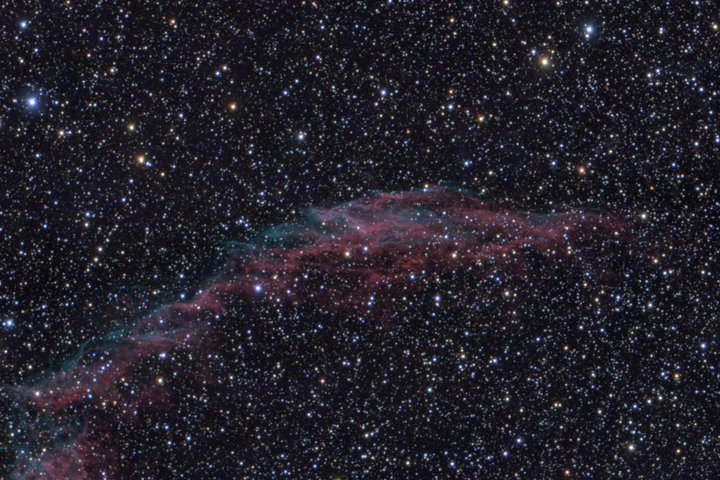
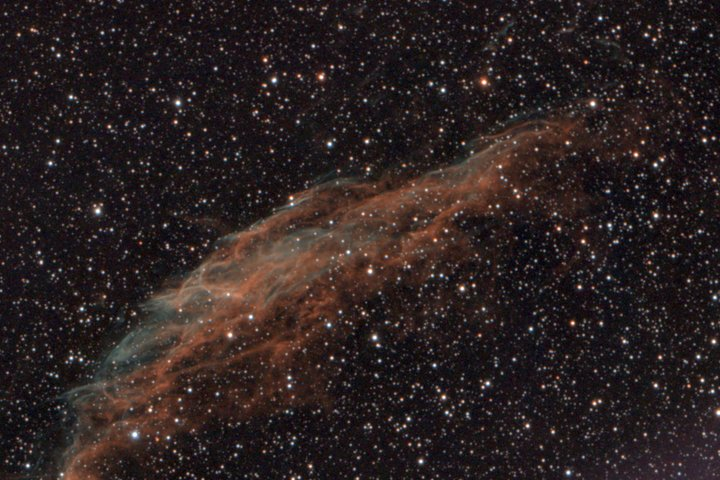
Gallery: Veil and North America Nebula from the new quad-band restacks
Eastern Veil 257 min (29-30 Oct), NGC 7000 145 min over five nights, M33 updated to
25 min; 17 targets, 26.1 h over 10 nights. The Veil card is centred on the filament;
the "close crop" tag is kept for cards that really zoom in.

diff --git a/docs/index.html b/docs/index.html
@@ -20,8 +20,8 @@ footer{color:var(--dim);font-size:14px;padding-bottom:40px}
 </style>
 <header>
 <h1>OriginMonitor gallery</h1>
-<p>Deep-sky images taken unattended with a Celestron Origin (152 mm f/2.2 RASA, 1.48&Prime; per pixel) from Cambridge, UK, between 9 October 2026 and 27 October 2026:
-17 targets, 21.9 hours of stacked exposure over 9 nights. Each target is one stack of all its good frames from every night
+<p>Deep-sky images taken unattended with a Celestron Origin (152 mm f/2.2 RASA, 1.48&Prime; per pixel) from Cambridge, UK, between 9 October 2026 and 30 October 2026:
+17 targets, 26.1 hours of stacked exposure over 10 nights. Each target is one stack of all its good frames from every night
 (<code>tools/restack.py</code>), shown as the live stacker's own preview at half resolution: background extraction, colour neutralisation and a stretch, with no further processing.
 Click a picture for the full field (about 75&prime; &times; 50&prime;).</p>
 <p>The stacker, scheduler and unattended supervisor are in the <a href="https://github.com/jrrk2/OriginMonitor">OriginMonitor repository</a>; how they drive the telescope is
@@ -29,7 +29,7 @@ drawn in <a href="state_machines.html">the state-machine charts</a>.</p>
 </header>
 <main>
 <figure><a href="gallery/ngc6888.jpg" title="Full field, 1380 &times; 580"><img src="gallery/ngc6888_card.jpg" alt="Crescent Nebula, NGC 6888" width="720" height="480" loading="lazy"></a><figcaption><b>Crescent Nebula, NGC 6888</b><br>889 frames, 197 min &middot; 10 s at ISO 800 &middot; Antlia quad-band nebula filter &middot; nights of 16, 25 Oct 2026 &middot; star HFR 3.5&Prime;</figcaption></figure>
-<figure><a href="gallery/ngc6992.jpg" title="Full field, 1429 &times; 858"><img src="gallery/ngc6992_card.jpg" alt="Eastern Veil, NGC 6992" width="720" height="480" loading="lazy"></a><figcaption><b>Eastern Veil, NGC 6992</b><br>340 frames, 112 min &middot; 20 s at ISO 200 &middot; no filter &middot; night of 9 Oct 2026 &middot; star HFR 3.4&Prime;</figcaption></figure>
+<figure><a href="gallery/ngc6992.jpg" title="Full field, 1285 &times; 596"><img src="gallery/ngc6992_card.jpg" alt="Eastern Veil, NGC 6992" width="720" height="480" loading="lazy"></a><figcaption><b>Eastern Veil, NGC 6992</b><br>1352 frames, 257 min &middot; 7 s at ISO 800 &middot; Antlia quad-band nebula filter &middot; nights of 29, 30 Oct 2026 &middot; star HFR 3.5&Prime;</figcaption></figure>
 <figure><a href="gallery/ngc2174.jpg" title="Full field, 1411 &times; 937"><img src="gallery/ngc2174_card.jpg" alt="Monkey Head Nebula, NGC 2174" width="720" height="480" loading="lazy"></a><figcaption><b>Monkey Head Nebula, NGC 2174</b><br>267 frames, 89 min &middot; 20 s at ISO 200 &middot; no filter &middot; night of 9 Oct 2026 &middot; star HFR 3.6&Prime;</figcaption></figure>
 <figure><a href="gallery/m31.jpg" title="Full field, 1427 &times; 845"><img src="gallery/m31_card.jpg" alt="Andromeda Galaxy, M31, with M32 and M110" width="720" height="480" loading="lazy"></a><figcaption><b>Andromeda Galaxy, M31, with M32 and M110</b><br>426 frames, 49 min &middot; 6 s at ISO 800 &middot; no filter &middot; nights of 9, 11, 13 Oct 2026 &middot; star HFR 3.6&Prime;</figcaption></figure>
 <figure><a href="gallery/ic405.jpg" title="Full field, 1466 &times; 944"><img src="gallery/ic405_card.jpg" alt="Flaming Star Nebula, IC 405" width="720" height="480" loading="lazy"></a><figcaption><b>Flaming Star Nebula, IC 405</b><br>327 frames, 109 min &middot; 20 s at ISO 200 &middot; no filter &middot; night of 9 Oct 2026 &middot; star HFR 3.6&Prime;</figcaption></figure>
@@ -42,9 +42,9 @@ drawn in <a href="state_machines.html">the state-machine charts</a>.</p>
 <figure><a href="gallery/m1.jpg" title="Full field, 1395 &times; 745"><img src="gallery/m1_card.jpg" alt="Crab Nebula, M1" width="720" height="480" loading="lazy"></a><figcaption><b>Crab Nebula, M1</b> <span class="tag">close crop</span><br>287 frames, 77 min &middot; 17 s at ISO 800 &middot; no filter &middot; nights of 11, 13 Oct 2026 &middot; star HFR 3.9&Prime;</figcaption></figure>
 <figure><a href="gallery/m57.jpg" title="Full field, 1501 &times; 985"><img src="gallery/m57_card.jpg" alt="Ring Nebula, M57" width="720" height="480" loading="lazy"></a><figcaption><b>Ring Nebula, M57</b> <span class="tag">close crop</span><br>331 frames, 110 min &middot; 20 s at ISO 800 &middot; Antlia quad-band nebula filter &middot; night of 15 Oct 2026 &middot; star HFR 3.6&Prime;</figcaption></figure>
 <figure><a href="gallery/ngc6946.jpg" title="Full field, 1411 &times; 798"><img src="gallery/ngc6946_card.jpg" alt="Fireworks Galaxy, NGC 6946" width="720" height="480" loading="lazy"></a><figcaption><b>Fireworks Galaxy, NGC 6946</b> <span class="tag">close crop</span><br>448 frames, 112 min &middot; 15 s at ISO 800 &middot; Antlia quad-band nebula filter &middot; night of 27 Oct 2026 &middot; star HFR 4.0&Prime;</figcaption></figure>
-<figure><a href="gallery/m33.jpg" title="Full field, 1446 &times; 960"><img src="gallery/m33_card.jpg" alt="Triangulum Galaxy, M33" width="720" height="480" loading="lazy"></a><figcaption><b>Triangulum Galaxy, M33</b><br>164 frames, 25 min &middot; 9 s at ISO 800 &middot; Antlia quad-band nebula filter &middot; night of 21 Oct 2026 &middot; star HFR 4.9&Prime;</figcaption></figure>
+<figure><a href="gallery/m33.jpg" title="Full field, 1446 &times; 960"><img src="gallery/m33_card.jpg" alt="Triangulum Galaxy, M33" width="720" height="480" loading="lazy"></a><figcaption><b>Triangulum Galaxy, M33</b><br>164 frames, 25 min &middot; 9 s at ISO 800 &middot; Antlia quad-band nebula filter &middot; nights of 21, 29 Oct 2026 &middot; star HFR 4.9&Prime;</figcaption></figure>
 <figure><a href="gallery/m13.jpg" title="Full field, 1516 &times; 1002"><img src="gallery/m13_card.jpg" alt="Hercules Cluster, M13" width="720" height="480" loading="lazy"></a><figcaption><b>Hercules Cluster, M13</b> <span class="tag">close crop</span><br>60 frames, 20 min &middot; 20 s at ISO 800 &middot; no filter &middot; night of 11 Oct 2026 &middot; star HFR 4.0&Prime;</figcaption></figure>
-<figure><a href="gallery/ngc7000.jpg" title="Full field, 945 &times; 795"><img src="gallery/ngc7000_card.jpg" alt="North America Nebula, NGC 7000" width="720" height="480" loading="lazy"></a><figcaption><b>North America Nebula, NGC 7000</b><br>572 frames, 35 min &middot; 3 s at ISO 200 &middot; no filter &middot; nights of 10, 13 Oct 2026 &middot; star HFR 2.9&Prime;</figcaption></figure>
+<figure><a href="gallery/ngc7000.jpg" title="Full field, 1472 &times; 995"><img src="gallery/ngc7000_card.jpg" alt="North America Nebula, NGC 7000" width="720" height="480" loading="lazy"></a><figcaption><b>North America Nebula, NGC 7000</b><br>569 frames, 145 min &middot; 20 s at ISO 800 &middot; Antlia quad-band nebula filter &middot; nights of 15, 16, 27, 29, 30 Oct 2026 &middot; star HFR 3.8&Prime;</figcaption></figure>
 </main>
 <footer>Photographs &copy; Jonathan Kimmitt. Star HFR is the median half-flux radius of the stacked frames. &ldquo;Antlia quad-band&rdquo; is a narrowband filter fitted on 15 October 2026; earlier frames are unfiltered.</footer>
 </html>

diff --git a/tools/gallery.py b/tools/gallery.py
@@ -15,7 +15,7 @@ HERE = os.path.dirname(os.path.abspath(__file__)); ROOT = os.path.dirname(HERE)
 # (final directory, slug, title, card crop as (cx, cy, width) in preview pixels or None for the whole field, full-field crop box or None)
 TARGETS = [
     ("NGC_6888_Nebula",                     "ngc6888",  "Crescent Nebula, NGC 6888",        None, None),
-    ("NGC6992_Veil_Clear",                  "ngc6992",  "Eastern Veil, NGC 6992",           None, None),
+    ("NGC_6992_Eastern_Veil_Nebula",        "ngc6992",  "Eastern Veil, NGC 6992",           (800, 298, 894), None),
     ("NGC2174_Monkey_Head_Clear",           "ngc2174",  "Monkey Head Nebula, NGC 2174",     None, None),
     ("M31_Clear",                           "m31",      "Andromeda Galaxy, M31, with M32 and M110", None, None),
     ("IC405_Flaming_Star_Clear",            "ic405",    "Flaming Star Nebula, IC 405",      None, None),
@@ -30,7 +30,7 @@ TARGETS = [
     ("NGC_6946_Fireworks_Galaxy_Nebula",    "ngc6946",  "Fireworks Galaxy, NGC 6946",       (668, 431, 380), None),
     ("M33_Nebula",                          "m33",      "Triangulum Galaxy, M33",           None, None),
     ("M13_Clear",                           "m13",      "Hercules Cluster, M13",            (761, 509, 640), None),
-    ("NGC_7000_North_America_Nebula_Clear", "ngc7000",  "North America Nebula, NGC 7000",   None, None),
+    ("NGC_7000_North_America_Nebula_Nebula", "ngc7000",  "North America Nebula, NGC 7000",   None, None),
 ]
 FILTER = {"Clear": "no filter", "Nebula": "Antlia quad-band nebula filter"}
 CARD_W, CARD_H = 720, 480
@@ -83,7 +83,7 @@ def main():
         if box: im = im.crop(box)
         im.save(os.path.join(gdir, slug + ".jpg"), quality=90, optimize=True, progressive=True)
         card(im, crop).save(os.path.join(gdir, slug + "_card.jpg"), quality=85, optimize=True, progressive=True)
-        f.update(slug=slug, title=title, w=im.width, h=im.height, cropped=bool(crop))
+        f.update(slug=slug, title=title, w=im.width, h=im.height, cropped=bool(crop) and crop[2] < 0.6 * im.width)   # a card that only trims a wide field is not a close crop
         items.append(f)
         print("%-10s %4d frames %5.0f min  %-6s nights %s" % (slug, f["frames"], f["minutes"], f["filter"], ",".join(f["nights"])))
 
